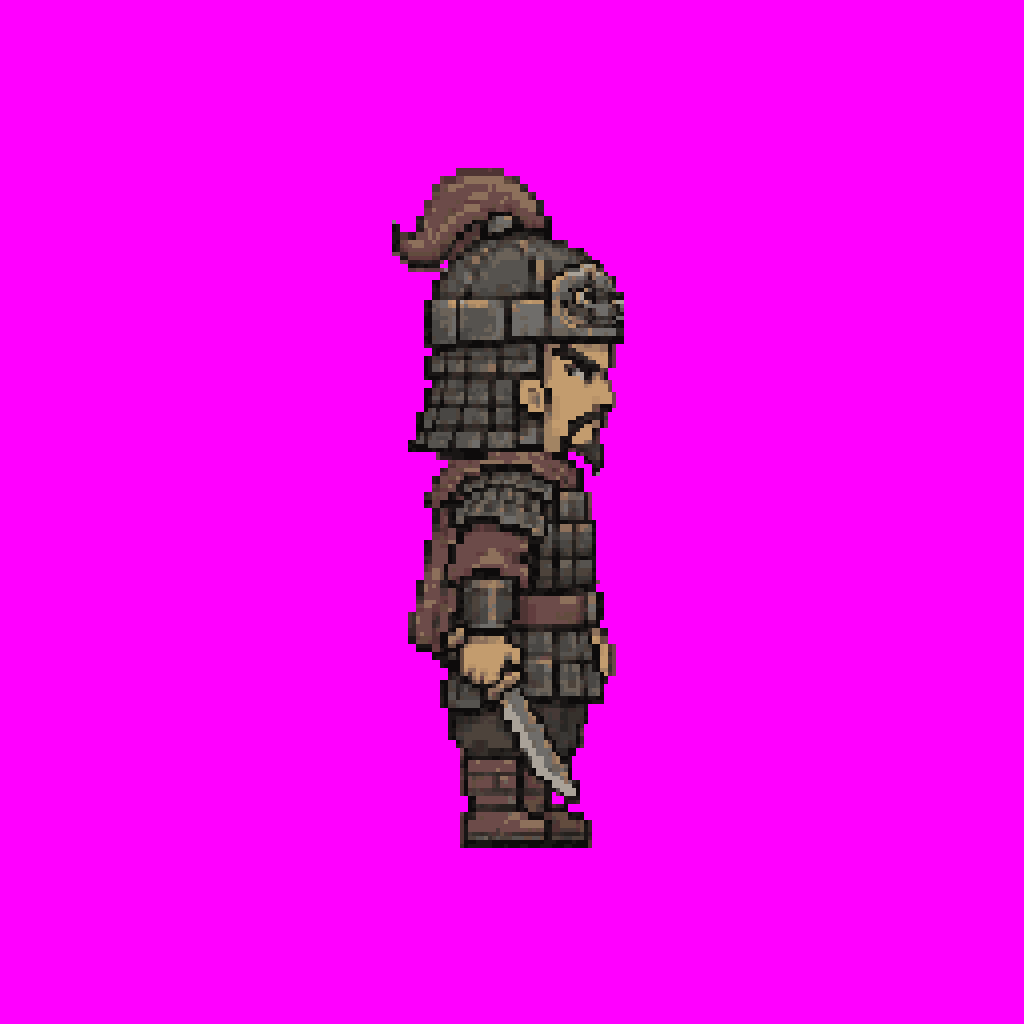
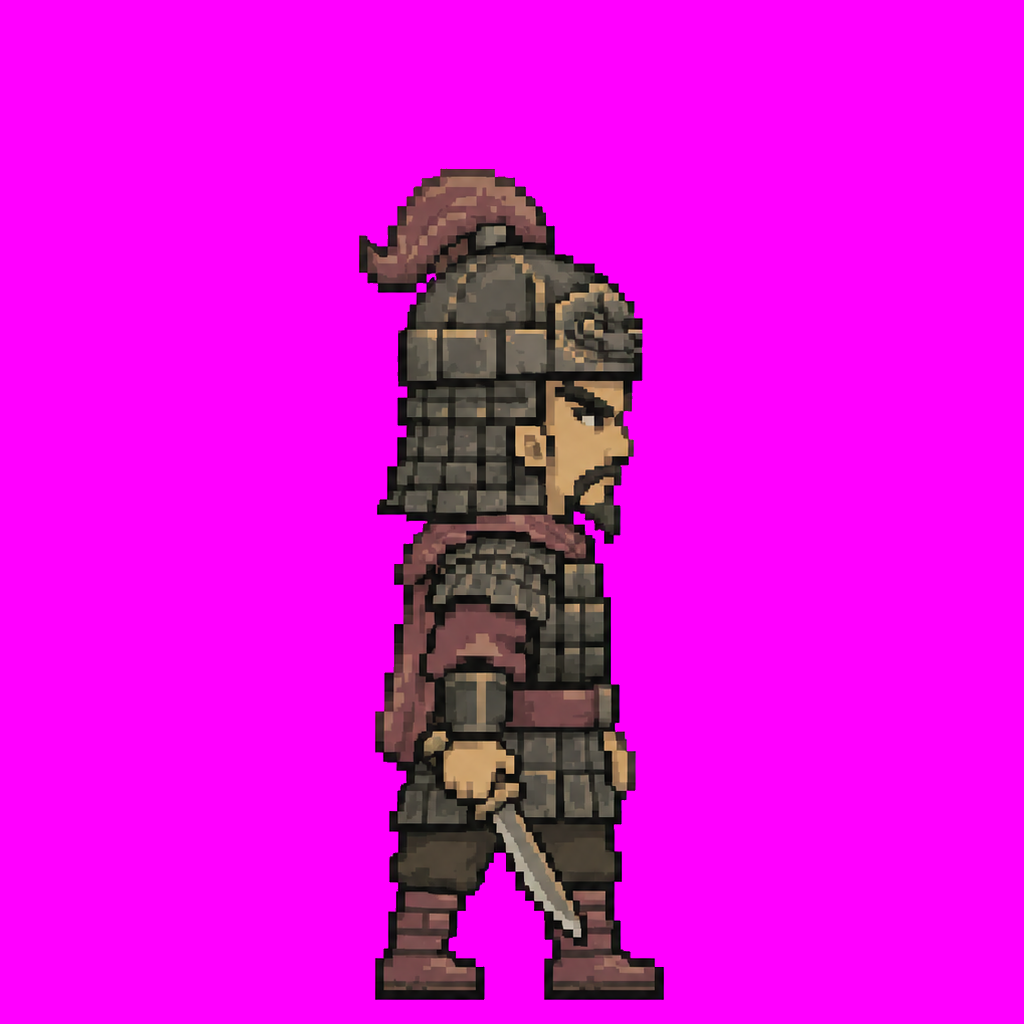
art: separate enemy side standing feet and complete item 8

Changed region(s): [[0.3438, 0.1562, 0.6562, 1.0]]

diff --git a/ART_QUEUE.md b/ART_QUEUE.md
@@ -76,7 +76,7 @@
 - 注意：這是普通小兵，不要做成黃巾渠帥（武將）那種盔甲或披風。
 - 站立圖（遊戲有用到，必做）：覆蓋 `turban_stand_front.png`、`turban_stand_side.png`、`turban_stand_back.png`，照共通規則的站立圖規定（不能雙腿並排站直）。
 
-## 8. 現有敵人「側面」站立圖 重做（側面雙腿疊在一起）　狀態：待重新生成
+## 8. 現有敵人「側面」站立圖 重做（側面雙腿疊在一起）　狀態：已推送（2026-11-14）
 - 正面、背面兩腳已分開，不用改。只覆蓋以下**側面**檔案，**造型、服裝、顏色、武器完全照舊**，只把兩腳改成一前一後分開（參考 `hero_side.png`）。每張 1024×1024。
 - 官軍精兵：`assets/characters/hansoldier_stand_side.png`（參考同名舊圖）
 - 官軍武將：`assets/characters/hangeneral_stand_side.png`（參考同名舊圖）
